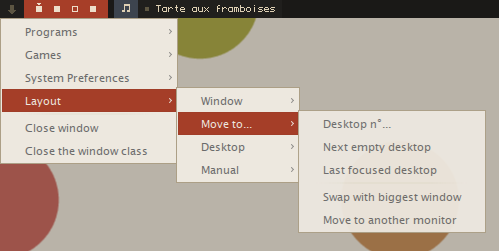
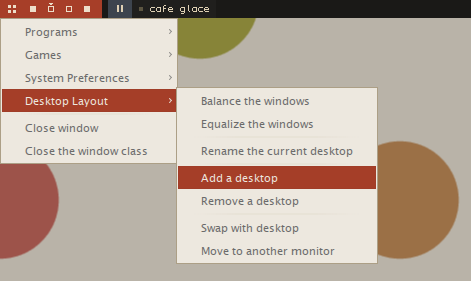
Mousse improvements, minimize in the panel (whid)

diff --git a/Stendhal/Panel/README.md b/Stendhal/Panel/README.md
@@ -110,6 +110,7 @@ If you are reading this, it's probably to use the scripts contained here. The sc
 For bar-aint-recursive itself,
 - `panel-monitor` is called when you click on the blue icon. It currently provides controls for:
     * ~~Setting the PCM channel volume.~~ *(TODO: update .gif)*
+    * Important desktop actions, like *rotate* and *flip*.
     * Setting the Master channel volume.
     * Setting the current keyboard layout.
     * Setting the screen brightness.
@@ -127,6 +128,13 @@ For the dzen popups and their sliders,
 ![Left click](https://raw.github.com/tatou-tatou/Themes/master/Stendhal/Previews/icon-leftclick.gif)
 
 All of this is generated by `panel-monitor` and the two dzen scripts. It appears when you click on the `not-stat` blue icon.
+
+###Desktop controls
+![Desktop](https://raw.github.com/tatou-tatou/Themes/master/Mousse/Previews/desktop-controls.png)
+
+Provides controls for rotating and flipping the tree. You can read more about why I put shortcuts for those controls and not others [here](https://github.com/tatou-tatou/Themes/tree/master/Mousse#bspwmmenu).
+
+I configured mouse controls for all WM-related actions, if you are interested I suggest you to read the [Mousse theme README](https://github.com/tatou-tatou/Themes/tree/master/Mousse). Some are barely ergonomic, but I work on that.
 
 ###Volume controls
 Should work out of the box. I just use the CLI tools that come with ALSA to get and change the Master volume.
@@ -279,6 +287,32 @@ Appears when you do a right click on the date. It lists mounted devices:
 It uses `udevil` and I use devmon to automount. I like devmon a lot, but udevil and it don't blend well with other programs (except [those written by the same dev](http://ignorantguru.github.io/spacefm/), obviously).
 
 *Note:* This is the functional equivalent of one of my [dmenu scripts](https://github.com/tatou-tatou/dotfiles/blob/master/.bin/dmenu_umount), except the dmenu script is obviously much simpler and cleaner.
+
+##Hidden windows list
+![Hiddenlist](https://raw.github.com/tatou-tatou/Themes/master/Stendhal/Previews/hide.gif)
+
+I made the rough (but working) sketch of a "**minimize**" script. It's called `whid` and can be used with dmenu or dzen. It's nothing but a draft, it needs more ricing to look good and works seamlessly.
+
+It can integrate itself with the panel too:
+- The number of currently hidden windows is displayed in the top right corner.
+- Clicking on that number will spawn the list of hidden windows in a dzen menu.
+
+To hide the focused window (bind it to something with sxhkd and/or add it to the menu from [Mousse](https://github.com/tatou-tatou/Themes/tree/master/Mousse#bspwmmenu)):
+
+    whid hide
+
+To spawn the list of hidden windows:
+
+    whid dmenu
+
+or
+
+    whid dzen
+
+Bind `whid dmenu` to sxhkd. `whid dzen` is only to provide a list for the panel.
+
+*Note: I do not actually minimize the windows, I map and unmap them!*
+
 
 
 #[Misc](https://github.com/tatou-tatou/Themes/tree/master/Stendhal/Panel/Misc) subdir

diff --git a/Mousse/README.md b/Mousse/README.md
@@ -35,18 +35,13 @@ It being easier to do a mistake in a manual tiling environment than in a layout-
 
 The "hybrid" tiling of bspwm solves that, but the `MouseLaunch` script forces to use manual tiling.
 
-####Alternate use
-For those who disable `focus_follows_pointer`, it could be interesting to add the layout changing commands to some sort of Start Menu:
-
-![Screenshot](https://raw.github.com/tatou-tatou/Themes/master/Mousse/Previews/apple-like-menu.png)
-
-Additionally, the above would let you close clients in an OSX-like manner. That's how my mother has always closed programs on OSX by the way: she *never* uses `Cmd+Q`, she uses her mouse and navigates the top menu to click on `Quit <Application name>` instead. If she ever used a tiling WM, for that option to be in such a place would seem very natural to her.
-
 ####Potential improvements
-The current menu is too long and cluttered, it should *only* contain **window** related commands:
+The current menu is too long and cluttered, it should *only* contain **window**-related commands:
 - Closing windows.
 - Changing window state (floating, etc...)
 - Moving to other desktops.
+
+![Screenshot](https://raw.github.com/tatou-tatou/Themes/master/Mousse/Previews/apple-like-menu.png)
 
 Anything global should be in a "Start Menu" near the workspace list (like above) or have a dedicated button or menu accessible from the panel:
 - Adding/renaming/removing/swapping desktops or moving them to another monitor.
@@ -56,6 +51,14 @@ Anything global should be in a "Start Menu" near the workspace list (like above)
 - Balance/Equalize desktops.
 
 Flip and rotate desktops are *very* important actions in a manual tiling WM, they should be given special importance. Maybe dedicated icons in the panel, kinda like how Awesome has a layout changer in its panel.
+
+Here's an example of how it could be done (from my Stendhal Theme):
+
+![Desktop](https://raw.github.com/tatou-tatou/Themes/master/Mousse/Previews/desktop-controls.png)
+
+Whenever they are used, rotate and flip are often done in succession, you rotate one time, you flip... A menu would be frustratingly slow.
+
+In my opinion, rotate and flip are the only commands that are critical enough to warrant a semi-permanent shortcut in the panel. All others are punctual and should therefore stay in a global menu.
 
 
 ##bspwm-zenity
